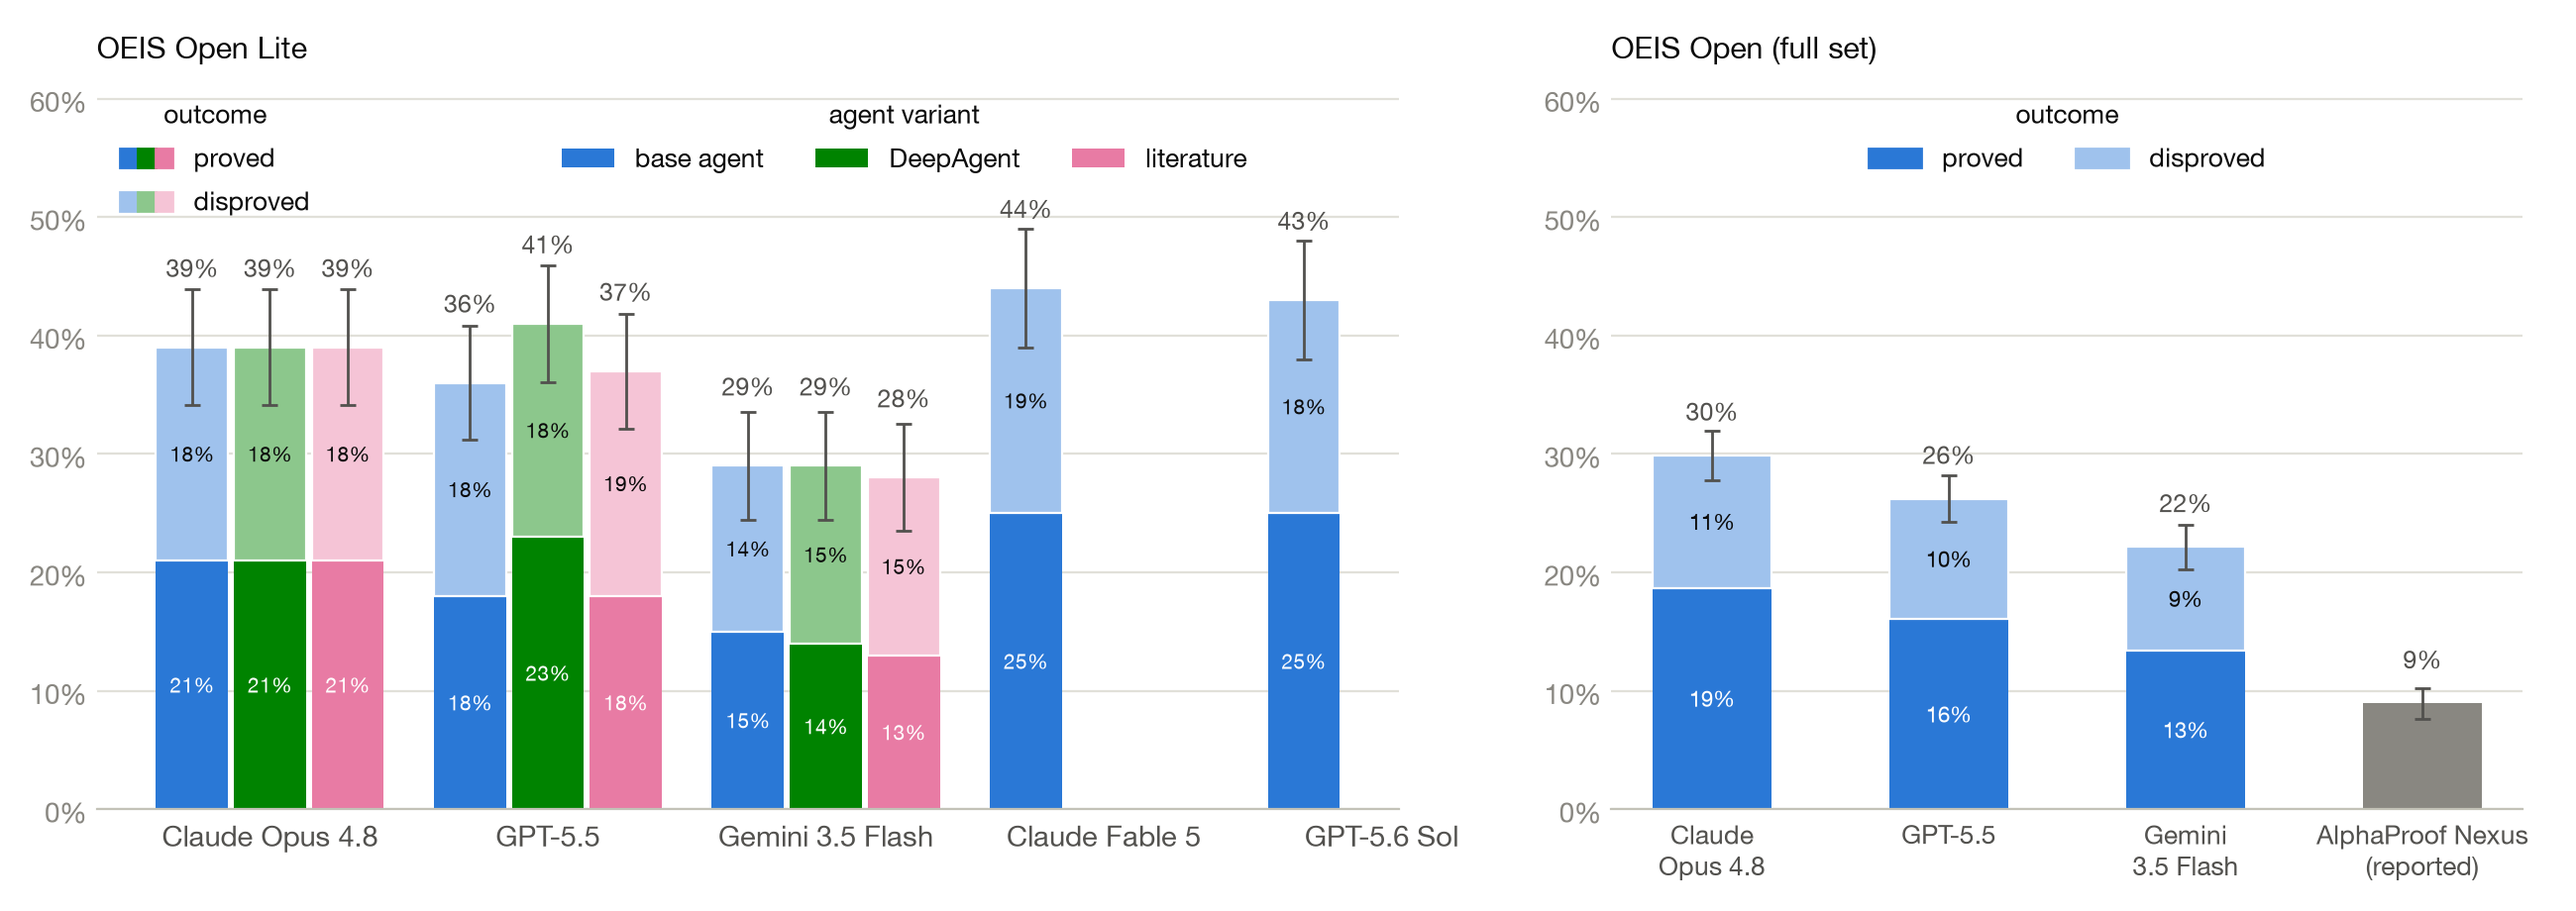
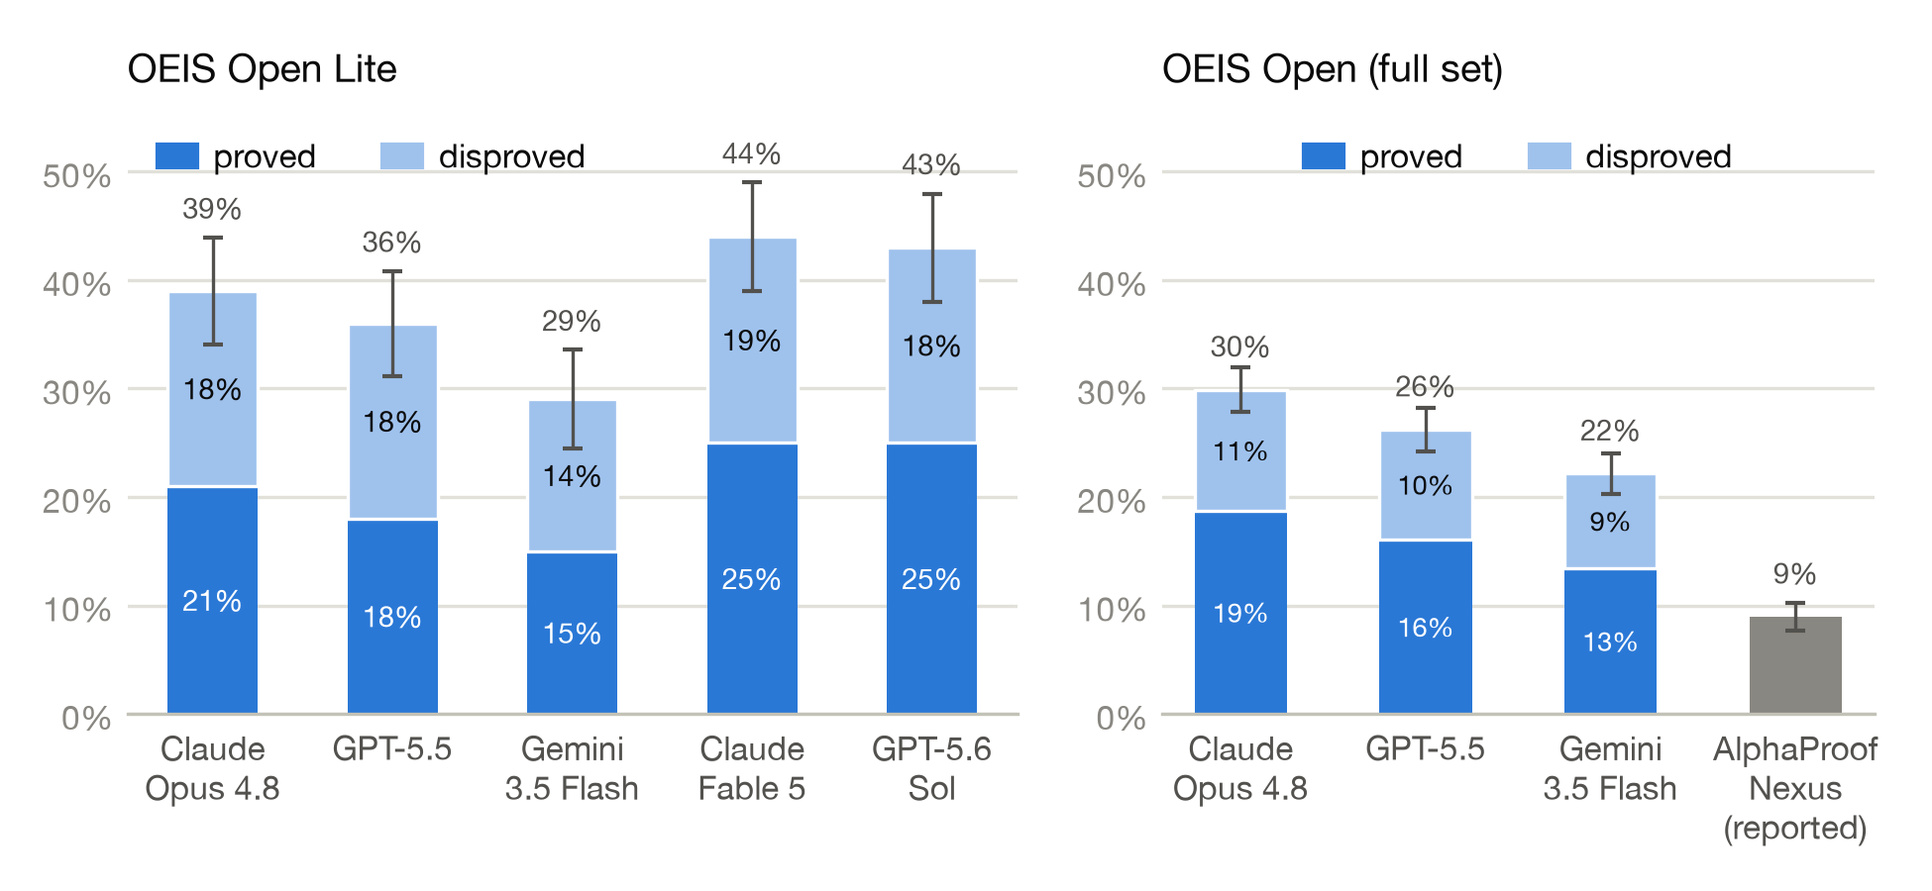
Render accuracy figures at print size; split variants into own figure

diff --git a/plots/make_plots.py b/plots/make_plots.py
@@ -90,11 +90,13 @@ def style_axis(ax, ymax=0.62):
     for side in ("top", "right", "left"):
         ax.spines[side].set_visible(False)
     ax.spines["bottom"].set_color(BASELINE)
-    ax.tick_params(length=0)
+    ax.tick_params(length=0, labelsize=8)
     ax.yaxis.set_major_formatter(lambda v, _: f"{v:.0%}")
 
+# Drawn at the paper's true print size (\textwidth = 6.5in), so font sizes
+# below are real point sizes on paper -- don't render large and shrink.
 fig, (ax1, ax2) = plt.subplots(
-    1, 2, figsize=(13, 4.6), gridspec_kw={"width_ratios": [3, 2.1]}
+    1, 2, figsize=(6.5, 3.0), gridspec_kw={"width_ratios": [5, 4]}
 )
 
 # pale tint of a series color for the disproof segment (same hue, lighter)
@@ -109,73 +111,62 @@ def stacked_bar(ax, x, proved, disproved, color, width, label=None):
     ax.bar(x, disproved, width=width, bottom=proved, color=tint(color),
            edgecolor=SURFACE, linewidth=0.8)
 
-def outcome_legend(ax, colors, **kwargs):
+def outcome_legend(ax, colors, title=None, **kwargs):
     """proved/disproved legend whose chips show every hue present in the panel,
-    so the solid/pale split visibly applies to all bars, not just one color."""
+    so the solid/pale split visibly applies to all bars, not just one color.
+    Pass a title only when another legend is present to disambiguate."""
     from matplotlib.legend_handler import HandlerTuple
     from matplotlib.patches import Patch
     solid = tuple(Patch(color=c) for c in colors)
     pale = tuple(Patch(color=tint(c)) for c in colors)
     return ax.legend(handles=[solid, pale], labels=["proved", "disproved"],
                      handler_map={tuple: HandlerTuple(ndivide=None, pad=0)},
-                     title="outcome", frameon=False, fontsize=9.5,
-                     title_fontsize=9.5, **kwargs)
+                     title=title, frameon=False, fontsize=8,
+                     title_fontsize=8, handlelength=1.2, handletextpad=0.5,
+                     labelspacing=0.3, **kwargs)
 
-# --- panel 1: lite, model x variant ----------------------------------------
-variants = ["base", "deep", "lit"]
-providers = [p for p in PROVIDERS
-             if any(("lite", v, p) in table for v in variants)]
-bar_w = 0.26
-for j, variant in enumerate(variants):
-    first = True
-    for i, prov in enumerate(providers):
-        if ("lite", variant, prov) not in table:
-            continue
-        acc, err, _, proved, disproved = table[("lite", variant, prov)]
-        x = i + (j - 1) * (bar_w + 0.02)
-        stacked_bar(ax1, x, proved, disproved, SERIES[variant], bar_w,
-                    label=VARIANT_LABELS[variant] if first else None)
-        first = False
-        ax1.errorbar([x], [acc], yerr=[err], fmt="none", ecolor=INK2,
-                     elinewidth=1, capsize=3)
-        ax1.text(x, acc + 0.055, f"{acc:.0%}", ha="center", va="bottom",
-                 fontsize=9, color=INK2)
-        # segment labels: white on the solid fill, ink on the pale one
-        if proved > 0.04:
-            ax1.text(x, proved / 2, f"{proved:.0%}", ha="center", va="center",
-                     fontsize=7.5, color=SURFACE)
-        if disproved > 0.04:
-            ax1.text(x, proved + disproved / 2, f"{disproved:.0%}", ha="center",
-                     va="center", fontsize=7.5, color=INK)
+# --- panel 1: lite, base agent only (variant comparison is its own figure) --
+FULL_COLOR = "#2a78d6"
+lite_provs = [p for p in PROVIDERS if ("lite", "base", p) in table]
+for x, prov in enumerate(lite_provs):
+    acc, err, _, proved, disproved = table[("lite", "base", prov)]
+    stacked_bar(ax1, x, proved, disproved, FULL_COLOR, 0.5)
+    ax1.errorbar([x], [acc], yerr=[err], fmt="none", ecolor=INK2,
+                 elinewidth=0.8, capsize=2.5)
+    ax1.text(x, acc + err + 0.012, f"{acc:.0%}", ha="center", va="bottom",
+             fontsize=7, color=INK2)
+    # segment labels: white on the solid fill, ink on the pale one
+    if proved > 0.04:
+        ax1.text(x, proved / 2, f"{proved:.0%}", ha="center", va="center",
+                 fontsize=7, color=SURFACE)
+    if disproved > 0.04:
+        ax1.text(x, proved + disproved / 2, f"{disproved:.0%}", ha="center",
+                 va="center", fontsize=7, color=INK)
 
-ax1.set_xticks(range(len(providers)))
-ax1.set_xticklabels([MODEL_LABELS[p] for p in providers], fontsize=10.5)
-style_axis(ax1)
-ax1.set_title(BENCH_LITE, fontsize=11, loc="left", color=INK)
-variant_legend = ax1.legend(
-    title="agent variant", frameon=False, fontsize=9.5, title_fontsize=9.5,
-    loc="upper center", bbox_to_anchor=(0.62, 1), ncols=len(variants))
-ax1.add_artist(variant_legend)
-outcome_legend(ax1, [SERIES[v] for v in variants], loc="upper left")
+ax1.set_xticks(range(len(lite_provs)))
+ax1.set_xticklabels([MODEL_LABELS[p].replace(" ", "\n", 1) for p in lite_provs],
+                    fontsize=8)
+style_axis(ax1, ymax=0.56)
+ax1.set_title(BENCH_LITE, fontsize=9.5, loc="left", color=INK)
+outcome_legend(ax1, [FULL_COLOR], loc="upper left", ncols=2)
 
 # --- panel 2: full, base scaffold ------------------------------------------
-FULL_COLOR = "#2a78d6"
-full_provs = [p for p in providers if ("full", "base", p) in table]
+full_provs = [p for p in PROVIDERS if ("full", "base", p) in table]
 labels = [MODEL_LABELS[p].replace(" ", "\n", 1) for p in full_provs]
 for x, prov in enumerate(full_provs):
     acc, err, _, proved, disproved = table[("full", "base", prov)]
     stacked_bar(ax2, x, proved, disproved, FULL_COLOR, 0.5)
     ax2.errorbar([x], [acc], yerr=[err], fmt="none", ecolor=INK2,
-                 elinewidth=1, capsize=3)
+                 elinewidth=0.8, capsize=2.5)
     ax2.text(x, acc + 0.025, f"{acc:.0%}", ha="center", va="bottom",
-             fontsize=9, color=INK2)
+             fontsize=7, color=INK2)
     # segment labels: white on the solid fill, ink on the pale one
     if proved > 0.04:
         ax2.text(x, proved / 2, f"{proved:.0%}", ha="center", va="center",
-                 fontsize=8, color=SURFACE)
+                 fontsize=6.5, color=SURFACE)
     if disproved > 0.04:
         ax2.text(x, proved + disproved / 2, f"{disproved:.0%}", ha="center",
-                 va="center", fontsize=8, color=INK)
+                 va="center", fontsize=6.5, color=INK)
 
 # External reported baseline: AlphaProof Nexus, 44/492 solved (all proofs; no
 # disproof mechanism reported, so the bar is not split)
@@ -184,16 +175,87 @@ apn_acc = 44 / 492
 apn_err = (apn_acc * (1 - apn_acc) / 492) ** 0.5
 ax2.bar(apn_x, apn_acc, width=0.5, color=MUTED)
 ax2.errorbar([apn_x], [apn_acc], yerr=[apn_err], fmt="none", ecolor=INK2,
-             elinewidth=1, capsize=3)
+             elinewidth=0.8, capsize=2.5)
 ax2.text(apn_x, apn_acc + 0.025, f"{apn_acc:.0%}", ha="center", va="bottom",
-         fontsize=9, color=INK2)
-labels.append(f"{ALPHAPROOF_NEXUS}\n(reported)")
+         fontsize=7, color=INK2)
+labels.append(f"{ALPHAPROOF_NEXUS.replace(' ', chr(10))}\n(reported)")
 
 outcome_legend(ax2, [FULL_COLOR], loc="upper center", ncols=2)
 ax2.set_xticks(list(range(len(labels))))
-ax2.set_xticklabels(labels, fontsize=9.5)
-style_axis(ax2)
-ax2.set_title(f"{BENCH_FULL} (full set)", fontsize=11, loc="left", color=INK)
-fig.tight_layout(w_pad=3)
-fig.savefig(OUT / "accuracy.png", dpi=200)
+ax2.set_xticklabels(labels, fontsize=7)
+style_axis(ax2, ymax=0.56)
+ax2.set_title(f"{BENCH_FULL} (full set)", fontsize=9.5, loc="left", color=INK)
+fig.tight_layout(w_pad=1.5)
+fig.savefig(OUT / "accuracy.png", dpi=300)
 print("wrote", OUT / "accuracy.png")
+
+# --- appendix figure: lite, model x agent variant ---------------------------
+# only models actually run with the non-base variants; lone base bars (Fable,
+# Sol) say nothing about variants
+figv, axv = plt.subplots(figsize=(6.5, 3.0))
+variants = ["base", "deep", "lit"]
+var_provs = [p for p in lite_provs
+             if any(("lite", v, p) in table for v in variants[1:])]
+bar_w = 0.26
+for j, variant in enumerate(variants):
+    first = True
+    for i, prov in enumerate(var_provs):
+        if ("lite", variant, prov) not in table:
+            continue
+        acc, err, _, proved, disproved = table[("lite", variant, prov)]
+        x = i + (j - 1) * (bar_w + 0.02)
+        stacked_bar(axv, x, proved, disproved, SERIES[variant], bar_w,
+                    label=VARIANT_LABELS[variant] if first else None)
+        first = False
+        axv.errorbar([x], [acc], yerr=[err], fmt="none", ecolor=INK2,
+                     elinewidth=0.8, capsize=2.5)
+        axv.text(x, acc + err + 0.012, f"{acc:.0%}", ha="center", va="bottom",
+                 fontsize=7, color=INK2)
+        # segment labels: white on the solid fill, ink on the pale one
+        if proved > 0.04:
+            axv.text(x, proved / 2, f"{proved:.0%}", ha="center", va="center",
+                     fontsize=7, color=SURFACE)
+        if disproved > 0.04:
+            axv.text(x, proved + disproved / 2, f"{disproved:.0%}", ha="center",
+                     va="center", fontsize=7, color=INK)
+
+axv.set_xticks(range(len(var_provs)))
+axv.set_xticklabels([MODEL_LABELS[p] for p in var_provs], fontsize=8.5)
+style_axis(axv, ymax=0.68)
+axv.set_title(f"{BENCH_LITE}, by agent variant", fontsize=9.5, loc="left",
+              color=INK)
+variant_legend = axv.legend(
+    title="agent variant", frameon=False, fontsize=8, title_fontsize=8,
+    loc="upper right", bbox_to_anchor=(1, 1), ncols=len(variants),
+    handlelength=1.2, handletextpad=0.5, columnspacing=1.0)
+axv.add_artist(variant_legend)
+outcome_legend(axv, [SERIES[v] for v in variants], title="outcome",
+               loc="upper left")
+figv.tight_layout()
+figv.savefig(OUT / "accuracy_variants.png", dpi=300)
+print("wrote", OUT / "accuracy_variants.png")
+
+# --- standalone full-set plot (social media, not the paper) -----------------
+fig2, ax = plt.subplots(figsize=(6.2, 4.6))
+for x, prov in enumerate(full_provs):
+    acc, err, _, proved, disproved = table[("full", "base", prov)]
+    stacked_bar(ax, x, proved, disproved, FULL_COLOR, 0.55)
+    ax.errorbar([x], [acc], yerr=[err], fmt="none", ecolor=INK2,
+                elinewidth=1, capsize=3)
+    ax.text(x, acc + 0.018, f"{acc:.0%}", ha="center", va="bottom",
+            fontsize=12, color=INK)
+    if proved > 0.04:
+        ax.text(x, proved / 2, f"{proved:.0%}", ha="center", va="center",
+                fontsize=10, color=SURFACE)
+    if disproved > 0.04:
+        ax.text(x, proved + disproved / 2, f"{disproved:.0%}", ha="center",
+                va="center", fontsize=10, color=INK)
+ax.set_xticks(range(len(full_provs)))
+ax.set_xticklabels([MODEL_LABELS[p] for p in full_provs], fontsize=12)
+style_axis(ax, ymax=0.4)
+ax.set_title(f"{BENCH_FULL}: share of 492 open conjectures resolved\n"
+             "(\\$50 budget per conjecture)", fontsize=12, loc="left", color=INK)
+outcome_legend(ax, [FULL_COLOR], loc="upper right")
+fig2.tight_layout()
+fig2.savefig(OUT / "accuracy_full_simple.png", dpi=200)
+print("wrote", OUT / "accuracy_full_simple.png")
